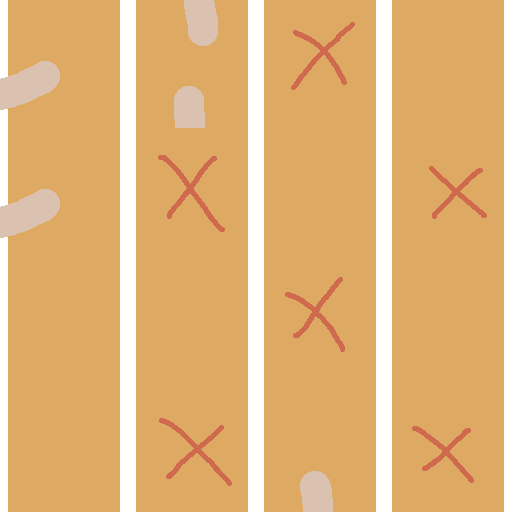
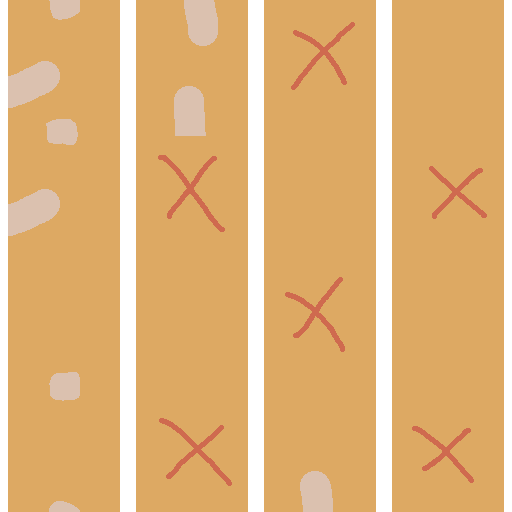
visuals

diff --git a/CC24/src/main.ts b/CC24/src/main.ts
@@ -7,12 +7,6 @@ import { mod, towards as approach, lerp, inRange, clamp, argmax, argmin, max, re
 import { canvasFromAscii } from "./kommon/spritePS";
 import { initGL2, IVec, Vec2, Color, GenericDrawer, StatefulDrawer, CircleDrawer, m3, CustomSpriteDrawer, Transform, IRect, IColor, IVec2, FullscreenShader, DefaultSpriteData, DefaultGlobalData } from "kanvas2d"
 
-// import anteater_url from "./images/anteater.png?url";
-
-const TEXTURES = {
-  // anteater: await imageFromUrl(anteater_url),
-};
-
 const input = new Input();
 const canvas_ctx = document.querySelector<HTMLCanvasElement>("#ctx_canvas")!;
 const ctx = canvas_ctx.getContext("2d")!;
@@ -20,6 +14,9 @@ const canvas_gl = document.querySelector<HTMLCanvasElement>("#gl_canvas")!;
 const gl = initGL2(canvas_gl)!;
 gl.clearColor(.5, .5, .5, 1);
 
+const TEXTURES = {
+  tile_border: twgl.createTexture(gl, { src: await loadImage('tile_border') }),
+} 
 const MAP_IMAGES = {
   cols: twgl.createTexture(gl, { src: await loadImage('0102_1002_' + 'cols') }),
   rows: twgl.createTexture(gl, { src: await loadImage('0102_1002_' + 'rows') }),
@@ -102,6 +99,31 @@ class BoardState {
               Vec2.zero,
               0
             ), uvs: new Transform(
+              new Vec2(i / 4, this.asdfThingCol(i, j, anim_t) / 4),
+              Vec2.both(1 / 4),
+              Vec2.zero,
+              0
+            )
+          });
+          vanillaSprites.end({ resolution: [canvas_gl.clientWidth, canvas_gl.clientHeight], u_texture: MAP_IMAGES.cols });
+
+          vanillaSprites.add({
+            transform: new Transform(
+              new Vec2(i, j).scale(TILE_SIDE).add(Vec2.both(TILE_SIDE / 2)),
+              Vec2.both(TILE_SIDE),
+              Vec2.zero,
+              0
+            ), uvs: Transform.identity
+          });
+          vanillaSprites.end({ resolution: [canvas_gl.clientWidth, canvas_gl.clientHeight], u_texture: TEXTURES.tile_border });
+
+          vanillaSprites.add({
+            transform: new Transform(
+              new Vec2(i, j).scale(TILE_SIDE).add(Vec2.both(TILE_SIDE / 2)),
+              Vec2.both(TILE_SIDE),
+              Vec2.zero,
+              0
+            ), uvs: new Transform(
               new Vec2(this.asdfThingRow(i, j, anim_t) / 4, j / 4),
               Vec2.both(1 / 4),
               Vec2.zero,
@@ -111,6 +133,31 @@ class BoardState {
           vanillaSprites.end({ resolution: [canvas_gl.clientWidth, canvas_gl.clientHeight], u_texture: MAP_IMAGES.rows });
         }
         else {
+          vanillaSprites.add({
+            transform: new Transform(
+              new Vec2(i, j).scale(TILE_SIDE).add(Vec2.both(TILE_SIDE / 2)),
+              Vec2.both(TILE_SIDE),
+              Vec2.zero,
+              0
+            ), uvs: new Transform(
+              new Vec2(this.asdfThingRow(i, j, anim_t) / 4, j / 4),
+              Vec2.both(1 / 4),
+              Vec2.zero,
+              0
+            )
+          });
+          vanillaSprites.end({ resolution: [canvas_gl.clientWidth, canvas_gl.clientHeight], u_texture: MAP_IMAGES.rows });
+
+          vanillaSprites.add({
+            transform: new Transform(
+              new Vec2(i, j).scale(TILE_SIDE).add(Vec2.both(TILE_SIDE / 2)),
+              Vec2.both(TILE_SIDE),
+              Vec2.zero,
+              0
+            ), uvs: new Transform(Vec2.half, Vec2.one, Vec2.half, Math.PI / 2),
+          });
+          vanillaSprites.end({ resolution: [canvas_gl.clientWidth, canvas_gl.clientHeight], u_texture: TEXTURES.tile_border });
+
           vanillaSprites.add({
             transform: new Transform(
               new Vec2(i, j).scale(TILE_SIDE).add(Vec2.both(TILE_SIDE / 2)),
@@ -213,7 +260,7 @@ let cur_state = new BoardState(
   null,
 );
 
-// cur_state = SOLUTION;
+cur_state = SOLUTION;
 
 canvas_ctx.addEventListener('pointerdown', event => {
   const relative = new Vec2(event.offsetX / canvas_ctx.clientWidth, event.offsetY / canvas_ctx.clientHeight).sub(Vec2.both(.5));
